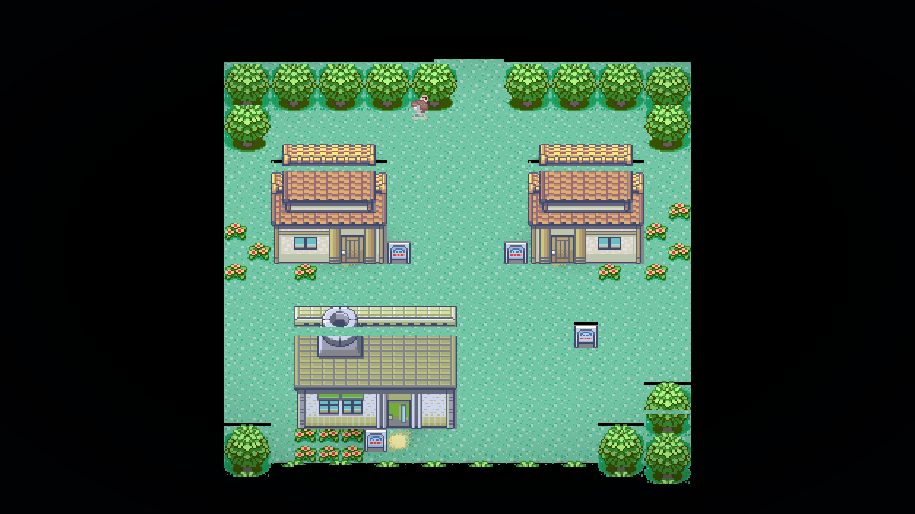
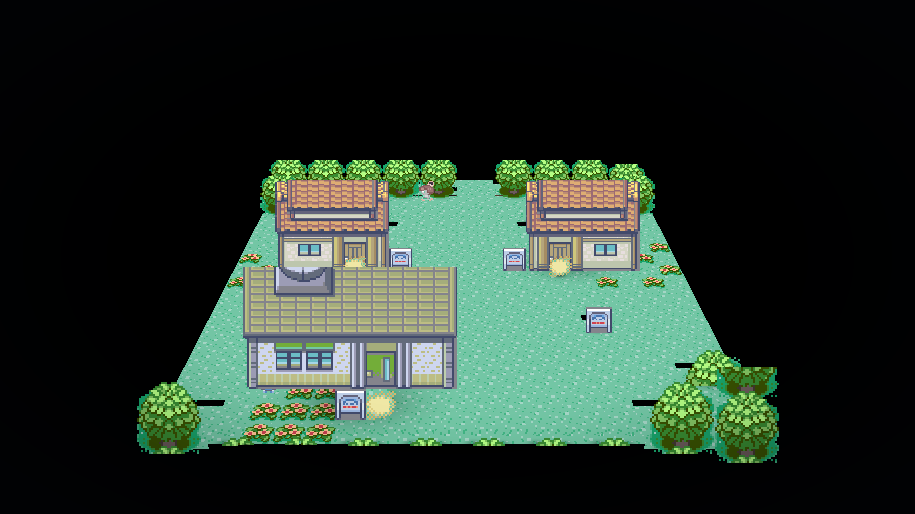
Restore tree volume with a fixed raised perspective camera

diff --git a/docs/GEN3HD-RUNTIME.md b/docs/GEN3HD-RUNTIME.md
@@ -32,7 +32,7 @@ gen3hd.world
         │  world.json + ground.png + objects/*.png + sprites/*.png
         ▼
 viewer3d (Godot 4.7, Forward+)
-  fixed high-angle orthographic camera by default
+  fixed slightly raised perspective camera by default
   heightfield terrain + side walls, black void outside the map
   upright alpha-cutout cards for trees, props and buildings
   optional low 3D camera and building meshes (--camera=play, --buildings=mesh)
@@ -137,10 +137,11 @@ scoring of its unique metatiles.
 - The Godot viewer renders a **compiled snapshot**, not the live emulator
   window yet. The next step is a stream loop: `romdev` frame → updated
   sprites/OAM → Godot.
-- The default camera is a fixed high-angle orthographic view; the map sits on
-  a black void like the handheld framebuffer. `--camera=map` gives a top-down
-  inspection view; `--camera=play` is an opt-in low-angle 3D camera. The void
-  is never tiled with a background field.
+- The default camera is a fixed, slightly raised perspective view (about 32°)
+  framing the map on a black void like the handheld framebuffer. It does not
+  roam past the border. `--camera=map` gives a top-down inspection view;
+  `--camera=play` is an opt-in low-angle, player-focused camera. The void is
+  never tiled with a background field.
 - Buildings are upright cards by default, which keeps arbitrary romhack
   structures at their original edges. `--buildings=mesh` is opt-in: it splits
   a detected eave into a wall band and a pitched/flat roof. That mesh path is

diff --git a/README.md b/README.md
@@ -10,8 +10,9 @@ An experimental **3D2D** renderer lab for GBA-era games and romhacks.
 > this README documents the legacy `gba_diorama` offline lab, kept as the
 > generic dump fallback and test oracle.
 
-The default presentation is a fixed high-angle orthographic view on a black
-void — upright cards, map-readable tiles, no free 3D camera:
+The default presentation is a fixed, slightly raised perspective view on a
+black void — upright cards, readable tiles, and enough angle for trees to keep
+their volume without becoming a free 3D scene:
 
 ![Route 101 compiled from a live Gen 3 session and rendered in Godot](docs/images/gen3hd-route101.png)
 
